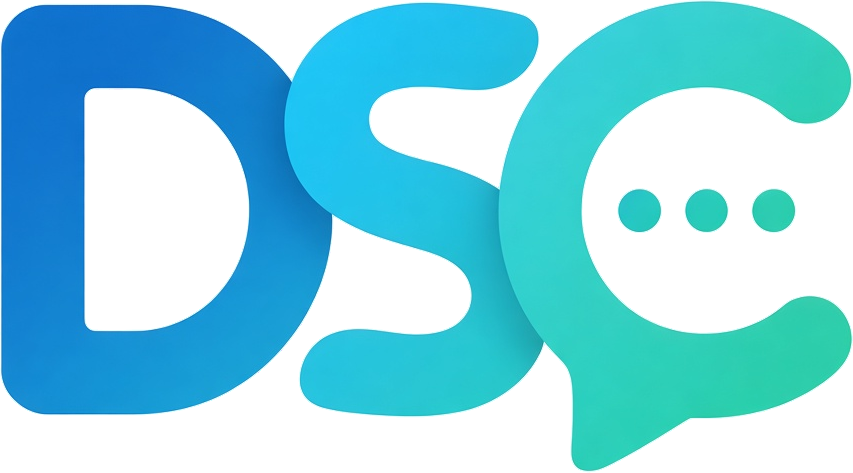
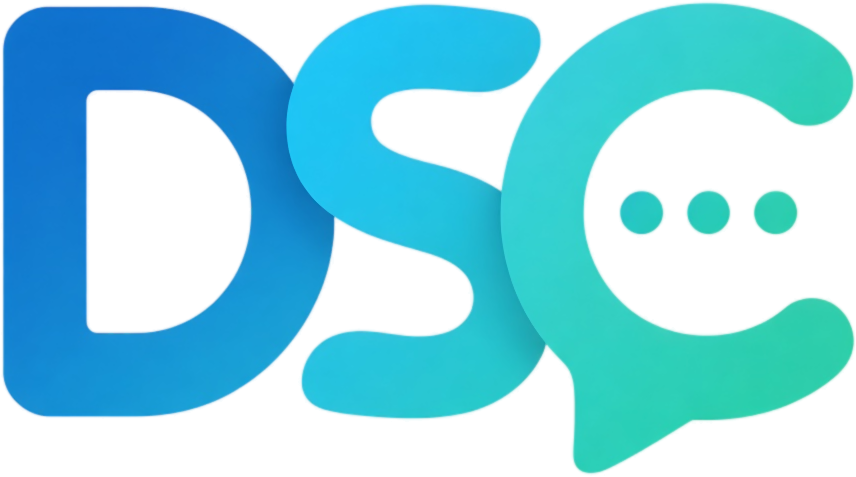
fix: re-extract wordmark with real un-matting so it has no pale rim
源图是 jpg，边缘像素是字形色和白底按覆盖率混合的结果。上一版把「离白底多远」
直接当 alpha，大半圈抗锯齿像素被判成不透明，颜色里还掺着白，深色底上就是一圈发白的毛边。

改成最小二乘反混合：先把核心像素的颜色往外扩散，得到每个像素的字形本色，再解覆盖率。
实测同一处边缘像素从 rgb(93,141,148)（发灰）变成 rgb(51,183,224)（干净的蓝绿混合）。

新增 tools/icon/extract-wordmark.py：源图 -> design/wordmark.png -> 各密度图标，都可重跑。

diff --git a/tools/icon/extract-wordmark.py b/tools/icon/extract-wordmark.py
@@ -1,0 +1,104 @@
+#!/usr/bin/env python3
+"""从设计图（纯色底的 jpg）里抠出透明底字标。
+
+源图是 jpg，边缘像素是字形色和白底按覆盖率混出来的。直接把"离白底多远"
+当 alpha 会把大半圈抗锯齿像素判成不透明，于是留下一圈发白的硬边（毛边）。
+这里按正规的反混合来做：
+
+1. 中值滤波压掉 jpg 块噪声；
+2. 找出确定被字形完全覆盖的"核心"像素，把它们的颜色往边缘扩散（bleed），
+   得到每个像素的"字形本色"；
+3. 用最小二乘解覆盖率：alpha = <白底-p, 白底-fg> / |白底-fg|²，
+   这样半透明边缘像素的颜色是字形色，不再掺白。
+
+用法（在 chat-demo 目录下）：
+
+    python tools/icon/extract-wordmark.py [源图路径]
+
+默认读 ../icon-images/白底图标.jpg，输出 design/wordmark.png 与 src/assets/wordmark.png。
+"""
+
+import os
+import sys
+
+import numpy as np
+from PIL import Image, ImageFilter
+
+HERE = os.path.dirname(os.path.abspath(__file__))
+ROOT = os.path.dirname(os.path.dirname(HERE))  # chat-demo/
+DEFAULT_SRC = os.path.join(os.path.dirname(ROOT), "icon-images", "白底图标.jpg")
+OUT_DESIGN = os.path.join(ROOT, "design", "wordmark.png")
+OUT_APP = os.path.join(ROOT, "src", "assets", "wordmark.png")
+
+BG = np.array([255.0, 255.0, 255.0], dtype=np.float32)
+CORE_DIFF = 0.70  # 与白底差异超过这个比例，认为字形完全覆盖
+ALPHA_FLOOR = 0.03
+
+
+def spread_colors(arr: np.ndarray, core: np.ndarray, iterations: int = 40) -> np.ndarray:
+    """把核心像素的颜色往外扩散，让每个像素都有一份"字形本色" """
+    h, w, _ = arr.shape
+    known = core.copy()
+    color = arr.copy()
+    color[~known] = 0.0
+    offsets = ((1, 0), (-1, 0), (0, 1), (0, -1), (1, 1), (1, -1), (-1, 1), (-1, -1))
+    for _ in range(iterations):
+        if known.all():
+            break
+        acc = np.zeros_like(color)
+        cnt = np.zeros((h, w), dtype=np.float32)
+        for dy, dx in offsets:
+            k = np.roll(known, (dy, dx), axis=(0, 1))
+            acc += np.roll(color, (dy, dx), axis=(0, 1)) * k[..., None]
+            cnt += k.astype(np.float32)
+        fill = (~known) & (cnt > 0)
+        if not fill.any():
+            break
+        color[fill] = acc[fill] / cnt[fill][:, None]
+        known = known | fill
+    color[~known] = BG
+    return color
+
+
+def unmatte(arr: np.ndarray, fg: np.ndarray) -> np.ndarray:
+    """最小二乘解覆盖率：把每个像素看成 字形色 与 白底 的线性混合"""
+    bg_minus_p = BG - arr
+    bg_minus_fg = BG - fg
+    denom = (bg_minus_fg * bg_minus_fg).sum(axis=2)
+    num = (bg_minus_p * bg_minus_fg).sum(axis=2)
+    alpha = np.where(denom > 1e-3, num / np.maximum(denom, 1e-3), 0.0)
+    return np.clip(alpha, 0.0, 1.0)
+
+
+def main() -> int:
+    src = sys.argv[1] if len(sys.argv) > 1 else DEFAULT_SRC
+    if not os.path.exists(src):
+        print("找不到源图:", src)
+        return 1
+
+    rgb = Image.open(src).convert("RGB").filter(ImageFilter.MedianFilter(3))
+    arr = np.asarray(rgb).astype(np.float32)
+
+    diff = np.abs(arr - BG).max(axis=2) / 255.0
+    core = diff > CORE_DIFF
+    fg = spread_colors(arr, core)
+    alpha = unmatte(arr, fg)
+    alpha[alpha < ALPHA_FLOOR] = 0.0
+
+    alpha_img = Image.fromarray((alpha * 255).astype(np.uint8), "L")
+    # 极轻微平滑，消掉 jpg 造成的锯齿台阶（不超过 1px）
+    alpha_img = alpha_img.filter(ImageFilter.GaussianBlur(0.6))
+
+    out = Image.fromarray(
+        np.dstack([np.clip(fg, 0, 255), np.asarray(alpha_img)]).astype(np.uint8), "RGBA"
+    )
+    out = out.crop(out.getbbox())
+    for path in (OUT_DESIGN, OUT_APP):
+        os.makedirs(os.path.dirname(path), exist_ok=True)
+        out.save(path)
+        print("写出", path, out.size)
+    return 0
+
+
+if __name__ == "__main__":
+    sys.exit(main())
